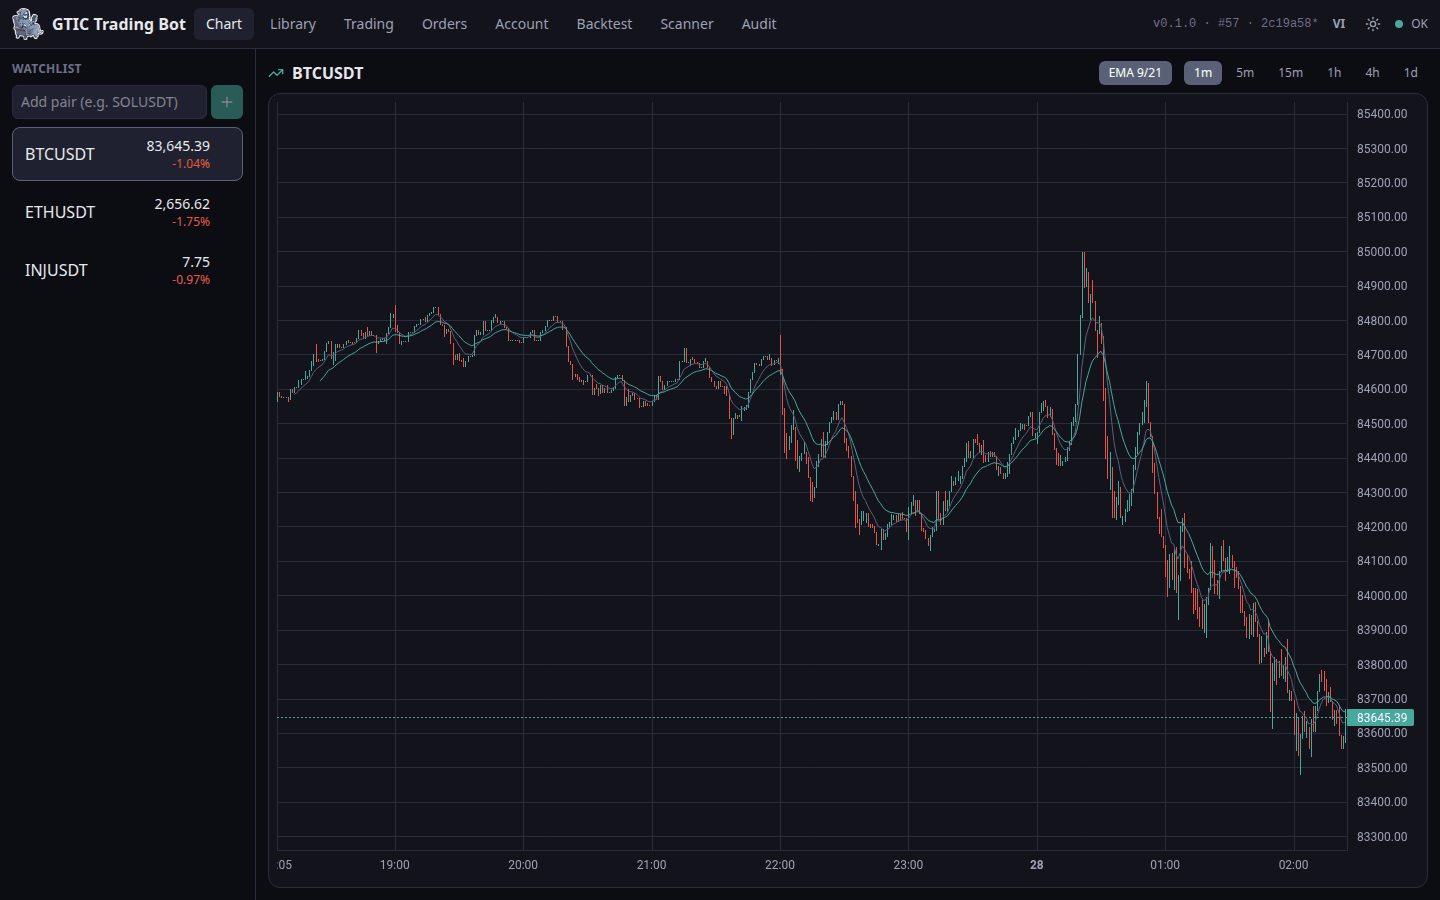
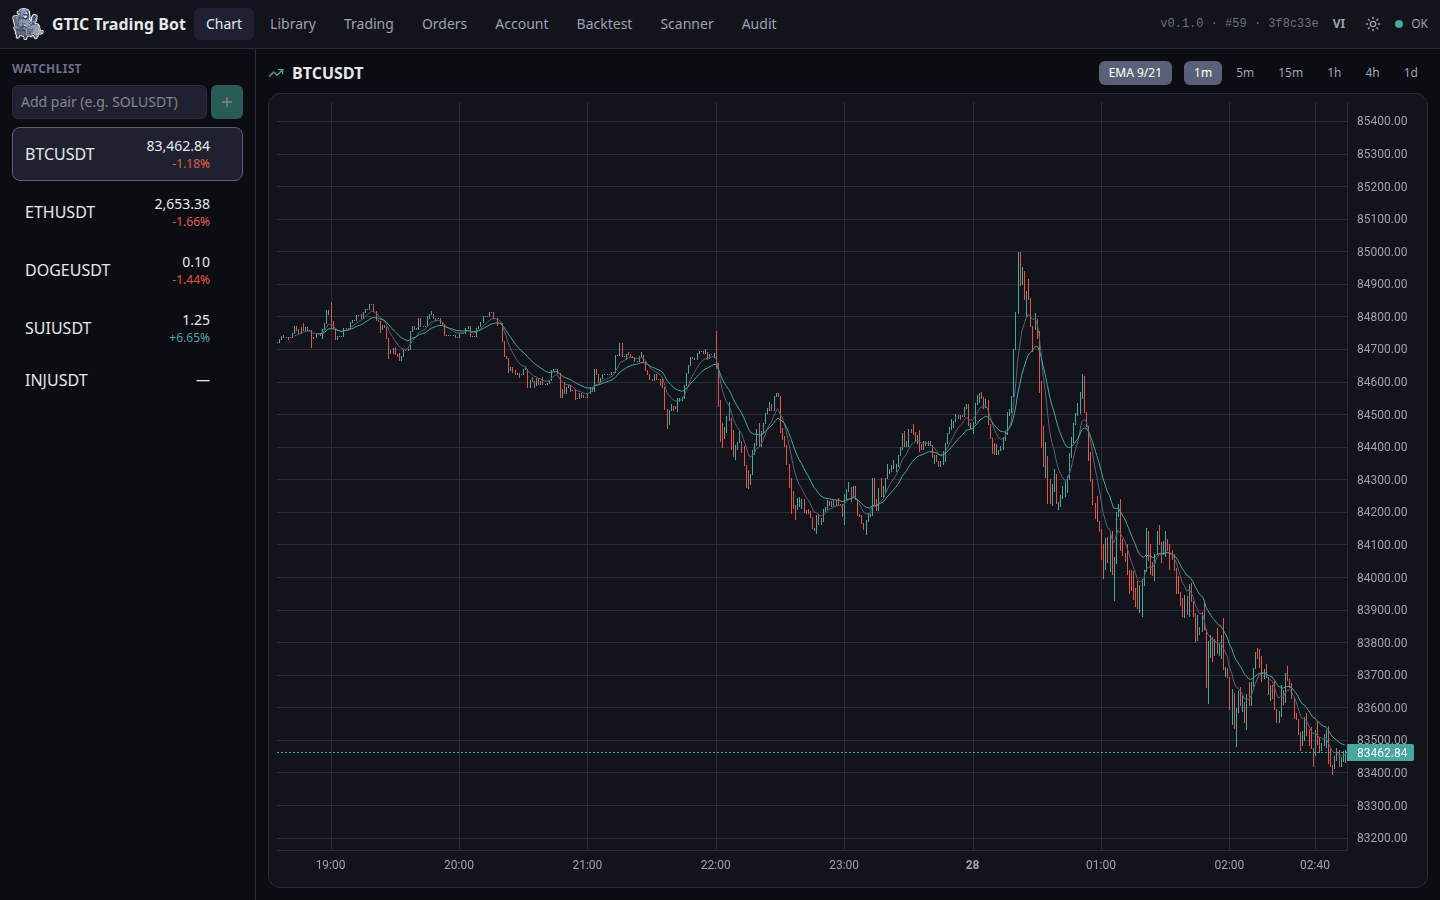
docs(readme): screenshots from the live paper instance
Retake every screenshot from the deployed paper-trading instance
(build 3f8c33e, English UI): chart, backtest, trade review with chart
replay, trade results, library, account, trading, scanner, audit log,
mobile and the Vietnamese view.

diff --git a/README.md b/README.md
@@ -55,8 +55,11 @@ Most retail bots either hide the logic or push you straight to real money. GTIC 
     <td colspan="2"><b>Backtest chart — entries/exits plotted on candles, plus the trade list</b><br/><img src="docs/screenshots/backtest-chart.png" alt="Backtest chart" /></td>
   </tr>
   <tr>
+    <td colspan="2"><b>Trade review — entry/exit, SL/TP, MFE/MAE on the chart, with a time-replay slider</b><br/><img src="docs/screenshots/trade-review.png" alt="Trade review" /></td>
+  </tr>
+  <tr>
+    <td width="50%"><b>Trade results — R multiples, win/loss, MFE/MAE</b><br/><img src="docs/screenshots/orders.png" alt="Orders and trade results" /></td>
     <td width="50%"><b>Strategy library & methodology docs</b><br/><img src="docs/screenshots/library.png" alt="Strategy library" /></td>
-    <td width="50%"><b>Trade review — R, MFE/MAE, exit reason</b><br/><img src="docs/screenshots/orders.png" alt="Orders and trade review" /></td>
   </tr>
   <tr>
     <td width="50%"><b>Account, equity & risk guards</b><br/><img src="docs/screenshots/account.png" alt="Account page" /></td>
@@ -64,11 +67,14 @@ Most retail bots either hide the logic or push you straight to real money. GTIC 
   </tr>
   <tr>
     <td width="50%"><b>Pair scanner</b><br/><img src="docs/screenshots/scanner.png" alt="Scanner" /></td>
-    <td width="50%"><b>Mobile</b><br/><img src="docs/screenshots/mobile.png" alt="Mobile layout" /></td>
+    <td width="50%"><b>Audit log — every order recorded before it is sent</b><br/><img src="docs/screenshots/audit.png" alt="Audit log" /></td>
+  </tr>
+  <tr>
+    <td colspan="2" align="center"><b>Mobile</b><br/><img src="docs/screenshots/mobile.png" alt="Mobile layout" width="60%" /></td>
   </tr>
 </table>
 
-> Numbers in the screenshots come from a local test database and are shown to illustrate the UI — they are **not** performance claims.
+> Screenshots are taken from a real paper-trading instance. The numbers illustrate the UI — they are **not** performance claims.
 
 ## Operating modes
 
